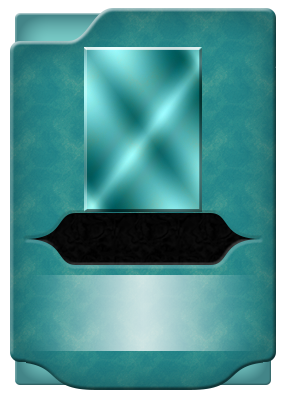
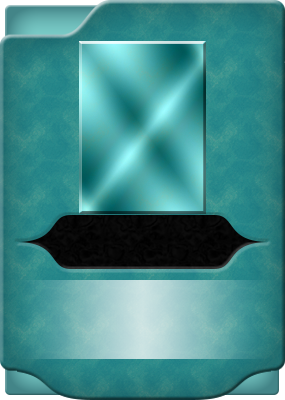
updated FutureFront, FutureBack, and SimpleFront for graphical errors. Updated drawCards.css to match the updated graphics on the new cards.

diff --git a/assets/css/drawCards.css b/assets/css/drawCards.css
@@ -46,7 +46,7 @@
 }
 
 #FutureFrontName {
-	top: 80%;
+	bottom: 5%;
 	left: 25.5%;
 	font-family: Arial, Helvetica, sans-serif;
 	font-size: 18px;
@@ -57,9 +57,9 @@
 }
 
 #FutureFrontIcon {
-	top: 5%;
-	left: 77%;
-	width: 7%;
+	top: 2.5%;
+	right: 15%;
+	width: 8%;
 }
 
 #CollegeBackName {
@@ -145,7 +145,7 @@
 }
 
 #FutureBackName {
-	top: 54%;
+	top: 55%;
 	left: 25.5%;
 	font-family: Arial, Helvetica, sans-serif;
 	font-size: 18px;
@@ -156,7 +156,7 @@
 }
 
 #FutureBackBio {
-	top: 69.5%;
+	bottom: 11%;
 	left: 15%;
 	width: 70%;
 	text-align: justify;
@@ -167,7 +167,7 @@
 }
 
 #FutureBackAffiliation {
-	bottom: 4%;
+	bottom: 1%;
 	left: 25%;
 	font-family: Arial, Helvetica, sans-serif;
 	font-size: 20px;
@@ -177,15 +177,15 @@
 }
 
 #FutureBackIcon {
-	top: 68%;
+	bottom: 9%;
 	left: 37.5%;
-	width: 25%;
+	width: 28%;
 	opacity: 0.33;
 }
 
 #FutureBackImage {
-	top: 13%;
-	left: 33.5%;
-	width: 34%;
+	top: 11.5%;
+	left: 31.5%;
+	width: 37%;
 	background-color: #ffffff;
 }
